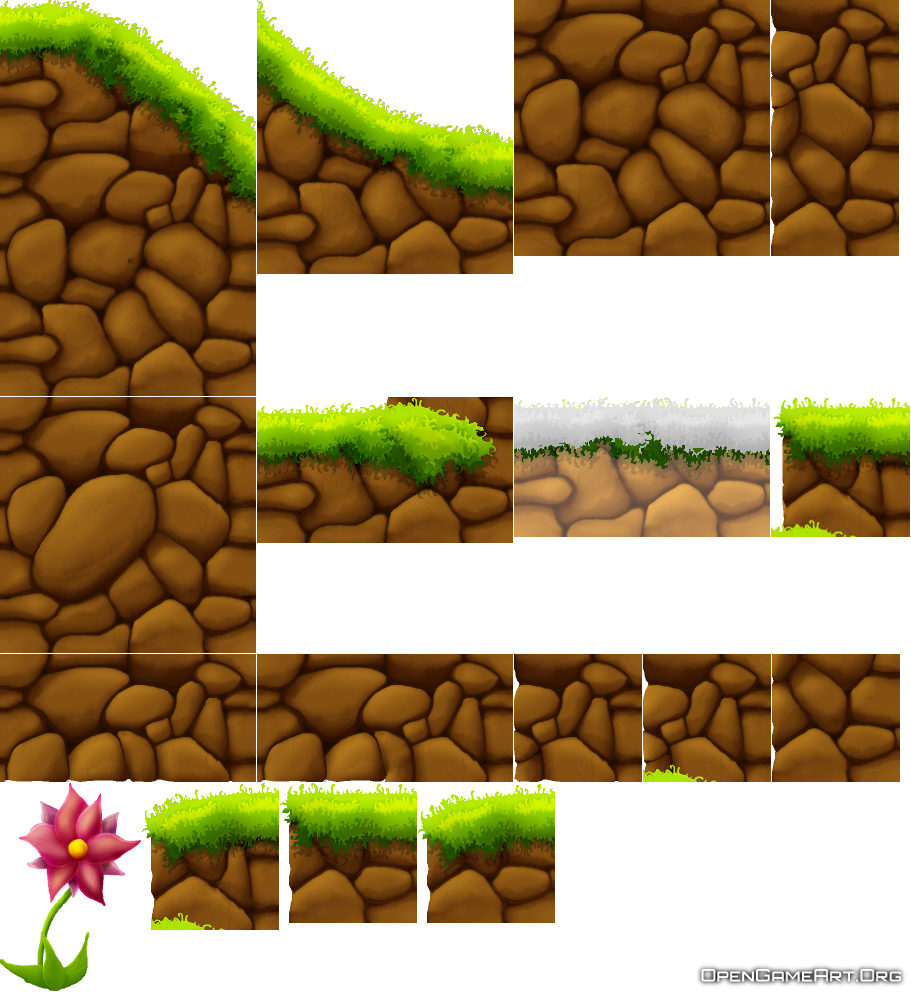
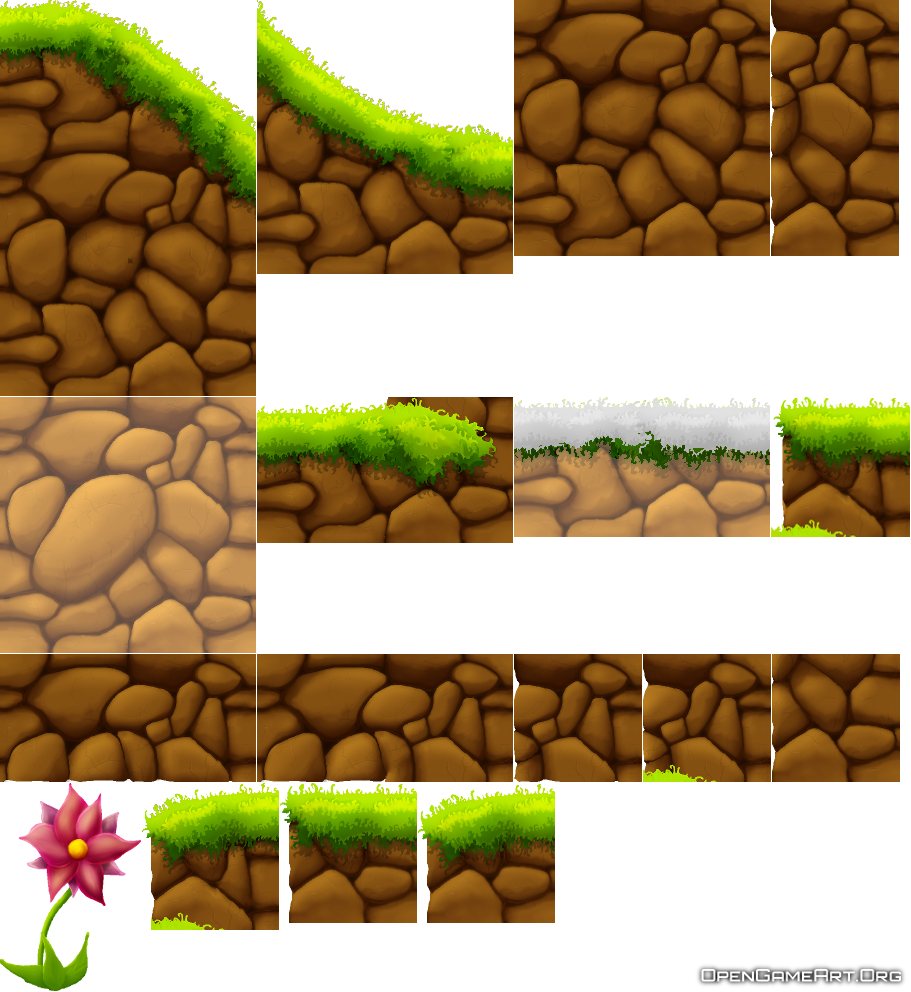
level2 boss toegevoegd, ground sprites aangepast. todo=behaviour voor boss

Changed region(s): [[0.0, 0.375, 0.3074, 0.6562]]

diff --git a/GameDev/Level2.cpp b/GameDev/Level2.cpp
@@ -20,21 +20,20 @@ void Level2::Init(BehaviourFactory* bf)
 	entityFactory->CreateEntity(1375, 450, 250, 120, EntityType::GROUNDLVL2);
 	entityFactory->CreateEntity(1625, 450, 250, 120, EntityType::GROUNDLVL2);
 	entityFactory->CreateEntity(1875, 450, 250, 120, EntityType::GROUNDLVL2);
-	entityFactory->CreateEntity(4500, 450, 250, 120, EntityType::GROUNDLVL2);
-	entityFactory->CreateEntity(4500, 330, 250, 120, EntityType::GROUNDLVL2);
-	entityFactory->CreateEntity(4500, 210, 250, 120, EntityType::GROUNDLVL2);
-	entityFactory->CreateEntity(4150, 210, 250, 120, EntityType::GROUNDLVL2);
-	entityFactory->CreateEntity(4150, 90, 250, 120, EntityType::GROUNDLVL2);
-	entityFactory->CreateEntity(4150, -30, 250, 120, EntityType::GROUNDLVL2);
-	entityFactory->CreateEntity(4250, -30, 250, 120, EntityType::GROUNDLVL2);
+	entityFactory->CreateEntity(4600, 350, 250, 250, EntityType::GROUND2LVL2);
+	entityFactory->CreateEntity(4600, 210, 250, 120, EntityType::GROUNDLVL2);
+	
+	entityFactory->CreateEntity(4250, 90, 250, 250, EntityType::GROUND2LVL2);
+	entityFactory->CreateEntity(4250, -50, 250, 120, EntityType::GROUNDLVL2);
+	
 	entityFactory->CreateEntity(4500, -30, 250, 120, EntityType::GROUNDLVL2);
 	entityFactory->CreateEntity(4750, -30, 250, 120, EntityType::GROUNDLVL2);
 	entityFactory->CreateEntity(5250, 450, 250, 120, EntityType::GROUNDLVL2);
-	entityFactory->CreateEntity(5250, 330, 250, 120, EntityType::GROUNDLVL2);
-	entityFactory->CreateEntity(5250, 210, 250, 120, EntityType::GROUNDLVL2);
-	entityFactory->CreateEntity(5250, 90, 250, 120, EntityType::GROUNDLVL2);
+	entityFactory->CreateEntity(5250, 365, 250, 250, EntityType::GROUND2LVL2);
+	entityFactory->CreateEntity(5250, 110, 250, 250, EntityType::GROUND2LVL2);
 	entityFactory->CreateEntity(5000, -30, 250, 120, EntityType::GROUNDLVL2);
 	entityFactory->CreateEntity(5250, -30, 250, 120, EntityType::GROUNDLVL2);
+	
 	//0,363
 	//256*269
 	//ground---------------------
@@ -49,11 +48,9 @@ void Level2::Init(BehaviourFactory* bf)
 	entityFactory->CreateEntity(2000, 570, 250, 140, EntityType::GROUNDLVL2);
 	entityFactory->CreateEntity(2250, 570, 250, 140, EntityType::GROUNDLVL2);
 	entityFactory->CreateEntity(2500, 570, 250, 140, EntityType::GROUNDLVL2);
-	//entityFactory->CreateEntity(2750, 570, 250, 140, EntityType::GROUNDLVL2);
 	entityFactory->CreateEntity(3000, 570, 250, 140, EntityType::GROUNDLVL2);
 	entityFactory->CreateEntity(3250, 570, 250, 140, EntityType::GROUNDLVL2);
 	entityFactory->CreateEntity(3500, 570, 250, 140, EntityType::GROUNDLVL2);
-	//entityFactory->CreateEntity(3750, 570, 250, 140, EntityType::GROUNDLVL2);
 	entityFactory->CreateEntity(4000, 570, 250, 140, EntityType::GROUNDLVL2);
 	entityFactory->CreateEntity(4250, 570, 250, 140, EntityType::GROUNDLVL2);
 	entityFactory->CreateEntity(4500, 570, 250, 140, EntityType::GROUNDLVL2);
@@ -73,20 +70,9 @@ void Level2::Init(BehaviourFactory* bf)
 	entityFactory->CreateActor(2000, 450, EntityType::PINGUIN);
 	entityFactory->CreateActor(2300, 450, EntityType::PINGUIN);
 	entityFactory->CreateActor(2500, 450, EntityType::PINGUIN);
-	entityFactory->CreateActor(2550, 450, EntityType::PINGUIN);*/
+	entityFactory->CreateActor(2550, 450, EntityType::PINGUIN);
 	//enemy yeti
-	/*entityFactory->CreateActor(10, 50, 800, 450, 42, 34, EntityType::SNOWMAN);
-	entityFactory->CreateActor(10, 50, 850, 450, 42, 34, EntityType::SNOWMAN);
-	entityFactory->CreateActor(10, 50, 900, 450, 42, 34, EntityType::SNOWMAN);
-	entityFactory->CreateActor(10, 50, 950, 450, 42, 34, EntityType::SNOWMAN);
-	entityFactory->CreateActor(10, 50, 1170, 450, 42, 34, EntityType::SNOWMAN);
-	entityFactory->CreateActor(10, 50, 1300, 450, 42, 34, EntityType::SNOWMAN);
-	entityFactory->CreateActor(10, 50, 1370, 450, 42, 34, EntityType::SNOWMAN);
-	entityFactory->CreateActor(10, 50, 3000, 450, 42, 34, EntityType::SNOWMAN);
-	entityFactory->CreateActor(10, 50, 3050, 450, 42, 34, EntityType::SNOWMAN);
-	entityFactory->CreateActor(10, 50, 3300, 450, 42, 34, EntityType::SNOWMAN);
-	entityFactory->CreateActor(10, 50, 3420, 450, 42, 34, EntityType::SNOWMAN);*/
-	/*entityFactory->CreateActor(800, 450, EntityType::SNOWMAN);
+	entityFactory->CreateActor(800, 450, EntityType::SNOWMAN);
 	entityFactory->CreateActor(850, 450, EntityType::SNOWMAN);
 	entityFactory->CreateActor(900, 450, EntityType::SNOWMAN);
 	entityFactory->CreateActor(950, 450, EntityType::SNOWMAN);
@@ -97,6 +83,9 @@ void Level2::Init(BehaviourFactory* bf)
 	entityFactory->CreateActor(3050, 450, EntityType::SNOWMAN);
 	entityFactory->CreateActor(3300, 450, EntityType::SNOWMAN);
 	entityFactory->CreateActor(3420, 450, EntityType::SNOWMAN);*/
+	//boss
+	entityFactory->CreateActor(5000, 350, EntityType::SNOWBOSS);
+	//entityFactory->CreateActor(200, 0, EntityType::SNOWBOSS);
 }
 
 //also sets parallaxBackground

diff --git a/GameDev/EntityFactory.cpp b/GameDev/EntityFactory.cpp
@@ -17,6 +17,7 @@ EntityFactory::EntityFactory(b2World& b2world, std::vector<Actor*>* _actor, std:
 		{ EntityType::HEALTH, new Actor()},
 		{ EntityType::AMMO, new Actor() },
 		{ EntityType::SNOWMAN, new Npc() },
+		{ EntityType::SNOWBOSS, new Npc() },
 	};
 
 	entityRegistery = std::unordered_map<EntityType, Entity*>{
@@ -27,6 +28,7 @@ EntityFactory::EntityFactory(b2World& b2world, std::vector<Actor*>* _actor, std:
 
 		//level2
 		{ EntityType::GROUNDLVL2, new Ground() },
+		{ EntityType::GROUND2LVL2, new Ground() },
 	};
 
 	weaponRegistery = std::unordered_map < EntityType, Weapon* > {
@@ -107,6 +109,14 @@ EntityFactory::EntityFactory(b2World& b2world, std::vector<Actor*>* _actor, std:
 	SnowmanDef.angularDamping = 1;
 	SnowmanDef.type = b2BodyType::b2_dynamicBody;
 
+	b2BodyDef SnowBossDef = b2BodyDef();
+	SnowBossDef.angle = 0.25f * b2_pi;
+	SnowBossDef.gravityScale = 0.0f;
+	SnowBossDef.fixedRotation = true;
+	SnowBossDef.linearDamping = 0;
+	SnowBossDef.angularDamping = 0.01f;
+	SnowBossDef.type = b2BodyType::b2_dynamicBody;
+
 	bodyRegistery = std::unordered_map<EntityType, b2BodyDef>{
 		{ EntityType::ENTITY, entDef },
 		{ EntityType::ACTOR, ActorDef },
@@ -126,12 +136,15 @@ EntityFactory::EntityFactory(b2World& b2world, std::vector<Actor*>* _actor, std:
 		{ EntityType::GROUNDLVL2, entDef },
 		{ EntityType::PINGUIN, PlantDef },
 		{ EntityType::SNOWMAN, SnowmanDef },
+		{ EntityType::GROUND2LVL2, entDef },
+		{ EntityType::SNOWBOSS, SnowBossDef },
 	};
 		npcStatsRegistery = std::unordered_map < EntityType, NpcStatsContainer* > {
 			{ EntityType::PLANT, new NpcStatsContainer(25, 50, 100, 40, 45) },
 			{ EntityType::PLANTBOSS, new NpcStatsContainer(50, 500, 1000, 100, 100) },
 			{ EntityType::PINGUIN, new NpcStatsContainer(34, 75, 200, 24, 36) },
 			{ EntityType::SNOWMAN, new NpcStatsContainer(45, 130, 250, 42, 34) },
+			{ EntityType::SNOWBOSS, new NpcStatsContainer(30, 2000, 2500, 120, 122) },
 		};
 }
 
@@ -193,7 +206,23 @@ Actor* EntityFactory::CreateActor(float x, float y, EntityType type) {
 	}
 	else {
 		NpcStatsContainer* npcStats = npcStatsRegistery.at(type);
-		b2Body* body = CreateActorBody(x, y, npcStats->GetHeight(), npcStats->GetWidth(), 1, type);
+		b2Body* body;
+		if (type == EntityType::SNOWBOSS){
+			body = CreateActorBody(x, y, npcStats->GetHeight(), npcStats->GetWidth(), 1, type);
+			b2CircleShape circleShape;
+			circleShape.m_p.Set(0, 0); //position, relative to body position
+			circleShape.m_radius = 1; //radius
+
+			b2FixtureDef myFixtureDef;
+			myFixtureDef.shape = &circleShape; //this is a pointer to the shape above
+			body->CreateFixture(&myFixtureDef); //add a fixture to the body
+
+			body->ApplyLinearImpulse(b2Vec2(0, 0), body->GetWorldCenter(),true);
+		}
+		else{
+			body = CreateActorBody(x, y, npcStats->GetHeight(), npcStats->GetWidth(), 1, type);
+		}
+		
 		ent->InitActor(body, npcStats->GetHitDmg(), npcStats->GetHealth(), npcStats->GetWidth(), npcStats->GetHeight()
 			, type, bf, drawContainer);
 		ent->SetScore(npcStats->GetScore());
@@ -256,6 +285,24 @@ b2Body* EntityFactory::CreateActorBody(float x, float y, float height, float wid
 	*/
 	return b2body;
 }
+
+/*b2Body* EntityFactory::CreateActorBodyRound(float x, float y, float height, float width, float den, EntityType type){
+	b2CircleShape circleShape;
+	circleShape.m_p.Set(0, 0);
+	circleShape.m_radius = 1;
+
+	height = height / 2;
+	width = width / 2;
+	float _x = 1;
+	float _y = 10;
+	float Ratio = _x / _y;
+	float newHeight = (height*Ratio);
+	float newWidth = (width*Ratio);
+
+	b2FixtureDef myFixtureDef;
+	myFixtureDef.shape = &circleShape; //this is a pointer to the shape above
+	//SnowBossDef->CreateFixture(&myFixtureDef); //add a fixture to the body
+}*/
 
 b2Body* EntityFactory::CreateBody(float x, float y, float height, float width, float den,EntityType type)
 {

diff --git a/GameDev/BehaviourFactory.cpp b/GameDev/BehaviourFactory.cpp
@@ -63,6 +63,9 @@ BehaviourFactory::BehaviourFactory(SDL_Renderer* sdl_renderer, int screenwidth, 
 	GroundLvl2Sprite* groundlvl2Sprite = new GroundLvl2Sprite(renderer);
 	groundlvl2Sprite->LoadMedia("snow2.png");
 
+	BigGroundSprite* bigGroundSprite = new BigGroundSprite(renderer);
+	bigGroundSprite->LoadMedia("snow2.png");
+
 	PinguinSprite* pinguinSprite = new PinguinSprite(renderer);
 	pinguinSprite->LoadMedia("pinguin.png");
 	pinguinSprite->SetAnimationSet(EntityState::IDLE);
@@ -77,6 +80,9 @@ BehaviourFactory::BehaviourFactory(SDL_Renderer* sdl_renderer, int screenwidth, 
 	SnowmanSprite* snowman = new SnowmanSprite(renderer);
 	snowman->LoadMedia("yeti.png");
 	snowman->SetAnimationSet(EntityState::IDLE);
+
+	SnowBossSprite* snowBoss = new SnowBossSprite(renderer);
+	snowBoss->LoadMedia("snowball.png");
 
 	sprites.push_back(snowman);
 	sprites.push_back(groundSprite);
@@ -94,6 +100,8 @@ BehaviourFactory::BehaviourFactory(SDL_Renderer* sdl_renderer, int screenwidth, 
 	sprites.push_back(pinguinSprite); 
 	sprites.push_back(treeSprite);
 	sprites.push_back(shotgun);
+	sprites.push_back(bigGroundSprite);
+	sprites.push_back(snowBoss);
 	registery = std::unordered_map<EntityType, DrawableBehaviour*>{
 		{ EntityType::PLAYER, new PlayerDrawableBehaviour(renderer, playerSprite, screenWidth, screenHeight) },
 		{ EntityType::PLANT, new AnimatedDrawableBehaviour(renderer, plantSprite, screenWidth, screenHeight) },
@@ -112,7 +120,9 @@ BehaviourFactory::BehaviourFactory(SDL_Renderer* sdl_renderer, int screenwidth, 
 		{ EntityType::GROUNDLVL2, new StaticDrawableBehaviour(renderer, groundlvl2Sprite, screenWidth, screenHeight) },
 		{ EntityType::PINGUIN, new AnimatedDrawableBehaviour(renderer, pinguinSprite, screenWidth, screenHeight) },
 		{ EntityType::SNOWMAN, new AnimatedDrawableBehaviour(renderer, snowman, screenWidth, screenHeight) },
-		{ EntityType::PLAYERSPRITE, new AnimatedDrawableBehaviour(renderer, playerSprite, screenWidth, screenHeight) }
+		{ EntityType::PLAYERSPRITE, new AnimatedDrawableBehaviour(renderer, playerSprite, screenWidth, screenHeight) },
+		{ EntityType::GROUND2LVL2, new StaticDrawableBehaviour(renderer, bigGroundSprite, screenWidth, screenHeight) },
+		{ EntityType::SNOWBOSS, new StaticDrawableBehaviour(renderer, snowBoss, screenWidth, screenHeight) },
 
 	};
 
@@ -127,6 +137,7 @@ BehaviourFactory::BehaviourFactory(SDL_Renderer* sdl_renderer, int screenwidth, 
 		{ EntityType::AMMO, new AmmoCollidableBehaviour() },
 		{ EntityType::JUMP, new JumpSensorCollidableBehaviour()},
 		{ EntityType::SNOWMAN, new EnemyCollidableBehaviour() },
+		{ EntityType::SNOWBOSS, new EnemyCollidableBehaviour() },
 	};
 }
 

diff --git a/GameDev/PlayMenu.cpp b/GameDev/PlayMenu.cpp
@@ -7,7 +7,7 @@ PlayMenu::PlayMenu(MenuState* menu, SDL_Renderer* renderer, TTF_Font* textfont, 
 	LoadLevels();
 	textColor = { 255, 255, 255, 255 }; // white
 	hoverTextColor = { 255, 0, 0, 255 }; // red
-	diseabledTextColor = { 42, 42, 42, 255 }; // grey
+	disabledTextColor = { 42, 42, 42, 255 }; // grey
 	this->mainMenu = menu;
 	this->renderer = renderer;
 	this->textFont = textfont;
@@ -46,7 +46,7 @@ void PlayMenu::MakeNewGame(SDL_Color color){
 
 void PlayMenu::MakeLevel1(SDL_Color color){
 	if (!levelsMap->at("Level1")){
-		color = diseabledTextColor;
+		color = disabledTextColor;
 	}
 	SDL_Surface* level1Button = TTF_RenderText_Blended(textFont, "Level 1", color);
 	level1Texture = SurfaceToTexture(level1Button);
@@ -59,7 +59,7 @@ void PlayMenu::MakeLevel1(SDL_Color color){
 
 void PlayMenu::MakeLevel2(SDL_Color color){
 	if (!levelsMap->at("Level2")){
-		color = diseabledTextColor;
+		color = disabledTextColor;
 	}
 	SDL_Surface* level2Button = TTF_RenderText_Blended(textFont, "Level 2", color);
 	level2Texture = SurfaceToTexture(level2Button);
@@ -72,7 +72,7 @@ void PlayMenu::MakeLevel2(SDL_Color color){
 
 void PlayMenu::MakeLevel3(SDL_Color color){
 	/*if (!levelsMap->at("level3")){
-		color = diseabledTextColor;
+		color = disabledTextColor;
 	}
 	SDL_Surface* level3Button = TTF_RenderText_Blended(textFont, "Level 3", color);
 	level3Texture = SurfaceToTexture(level3Button);

diff --git a/GameDev/EntityFactory.h b/GameDev/EntityFactory.h
@@ -25,6 +25,7 @@ public:
 	Player* CreatePlayer(int _hitdmg, int _healt, float x, float y, float height, float width, Player* _player);
 	Bullet* CreateBullet(float x, float y, int width, int height, int dmg, b2Vec2 direction, EntityType type);
 	b2Body* CreateActorBody(float x, float y, float height, float width, float den, EntityType type);
+	//b2Body* CreateActorBodyRound(float x, float y, float height, float width, float den, EntityType type);
 	b2Body* CreateBody(float x, float y, float height, float width, EntityType type);
 	Weapon* CreateWeapon(float x, float y, EntityType type);
 	b2Body* CreateBody(float x, float y, float height, float width, float den, EntityType type);

diff --git a/GameDev/BigGroundSprite.cpp b/GameDev/BigGroundSprite.cpp
@@ -1,0 +1,27 @@
+#include "BigGroundSprite.h"
+
+
+BigGroundSprite::BigGroundSprite(SDL_Renderer* _renderer) : Sprite(_renderer)
+{
+	IDLE_ANIMATION_FRAMES = -1;
+	WALK_ANIMATION_FRAMES = -1;
+	JUMP_ANIMATION_FRAMES = -1;
+	SHOOT_ANIMATION_FRAMES = -1;
+	DYING_ANIMATION_FRAMES = -1;
+
+	yOffSet = -20;
+
+	SetAnimations();
+}
+
+BigGroundSprite::~BigGroundSprite()
+{
+}
+
+void BigGroundSprite::SetAnimations()
+{
+	defaultSprite.x = 0;
+	defaultSprite.y = 397;
+	defaultSprite.w = 256;
+	defaultSprite.h = 256;
+}

diff --git a/GameDev/SnowBossSprite.cpp b/GameDev/SnowBossSprite.cpp
@@ -1,0 +1,21 @@
+#include "SnowBossSprite.h"
+
+SnowBossSprite::SnowBossSprite(SDL_Renderer* _renderer) : Sprite(_renderer)
+{
+	IDLE_ANIMATION_FRAMES = 1;
+	WALK_ANIMATION_FRAMES = -1;
+	JUMP_ANIMATION_FRAMES = -1;
+	SHOOT_ANIMATION_FRAMES = -1;
+	SetAnimations();
+}
+
+SnowBossSprite::~SnowBossSprite()
+{
+}
+
+void SnowBossSprite::SetAnimations(){
+	defaultSprite.x = 450;
+	defaultSprite.y = 216;
+	defaultSprite.w = 122;
+	defaultSprite.h = 120;
+}

diff --git a/GameDev/EntityType.h b/GameDev/EntityType.h
@@ -1,6 +1,6 @@
 enum class EntityType
 {
-	ENTITY, ACTOR, NPC, PLAYER, PLAYERSPRITE ,ENEMY, PLANT, PLANTBOSS, GROUND, GROUND2, BAR,BULLET,HEALTH,AMMO,WEAPON,SHOTGUN,JUMP, ACORN, CHEATLOAD, GROUNDLVL2, PINGUIN, SNOWMAN
+	ENTITY, ACTOR, NPC, PLAYER, PLAYERSPRITE ,ENEMY, PLANT, PLANTBOSS, GROUND, GROUND2, BAR,BULLET,HEALTH,AMMO,WEAPON,SHOTGUN,JUMP, ACORN, CHEATLOAD, GROUNDLVL2, PINGUIN, SNOWMAN, GROUND2LVL2, SNOWBOSS
 
 
 };

diff --git a/GameDev/LevelConfig.cpp b/GameDev/LevelConfig.cpp
@@ -45,14 +45,6 @@ void LevelConfig::SaveLevelProgress(string s){
 		}
 		levels << it->first << "=" << it->second << endl;
 	}
-	/*for (auto lvl : levelsMap){
-		if (lvl.first == s){
-			lvl.second = 1;
-		}
-	}
-	for (auto lvl : levelsMap){
-		levels << lvl.first << "=" << lvl.second << endl;
-	}*/
 	levels.close();
 }
 

diff --git a/GameDev/BigGroundSprite.h b/GameDev/BigGroundSprite.h
@@ -1,0 +1,13 @@
+#pragma once
+#include "Sprite.h"
+class BigGroundSprite :
+	public Sprite
+{
+public:
+	BigGroundSprite(SDL_Renderer* _renderer);
+	~BigGroundSprite();
+
+protected:
+	virtual void SetAnimations() override;
+};
+

diff --git a/GameDev/SnowBossSprite.h b/GameDev/SnowBossSprite.h
@@ -1,0 +1,11 @@
+#pragma once
+#include "Sprite.h"
+class SnowBossSprite: public Sprite
+{
+public:
+	SnowBossSprite(SDL_Renderer* _renderer);
+	~SnowBossSprite();
+protected:
+	virtual void SetAnimations() override;
+};
+

diff --git a/GameDev/BehaviourFactory.h b/GameDev/BehaviourFactory.h
@@ -22,7 +22,8 @@
 #include "PinguinSprite.h"
 #include "TreeSprite.h"
 #include "SnowmanSprite.h"
-
+#include "BigGroundSprite.h"
+#include "SnowBossSprite.h"
 
 class Camera;
 class Player;
